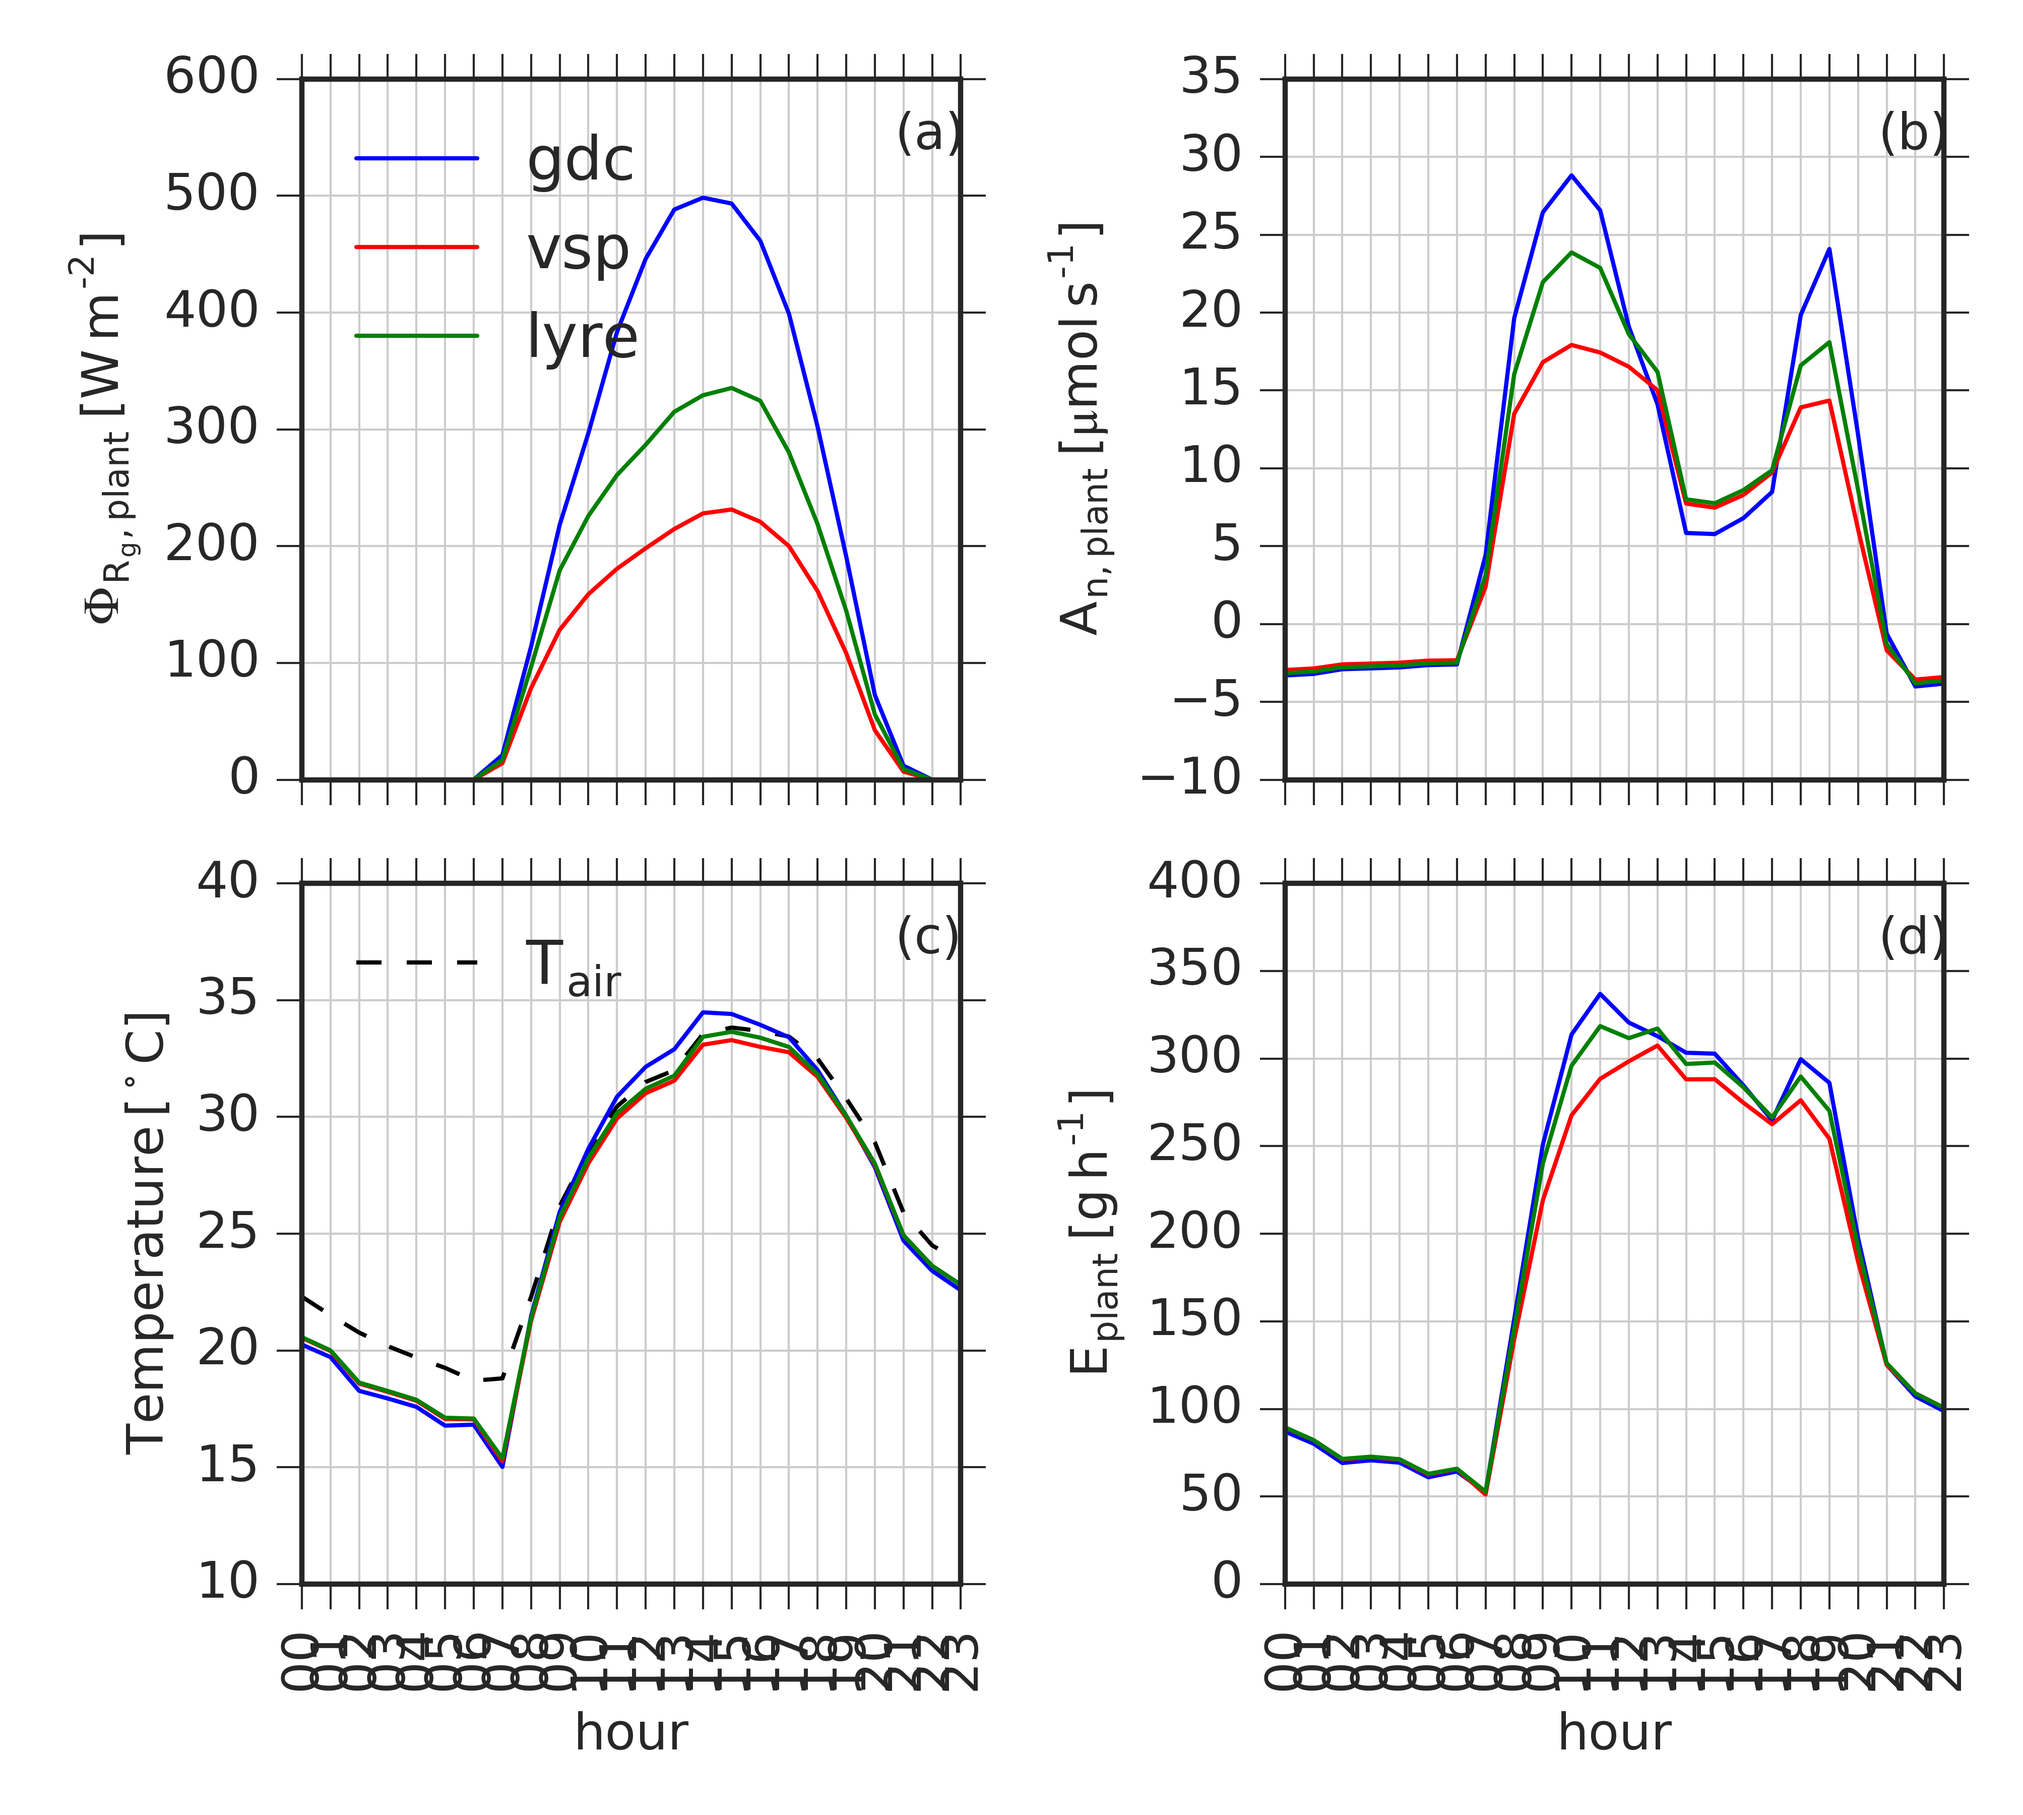
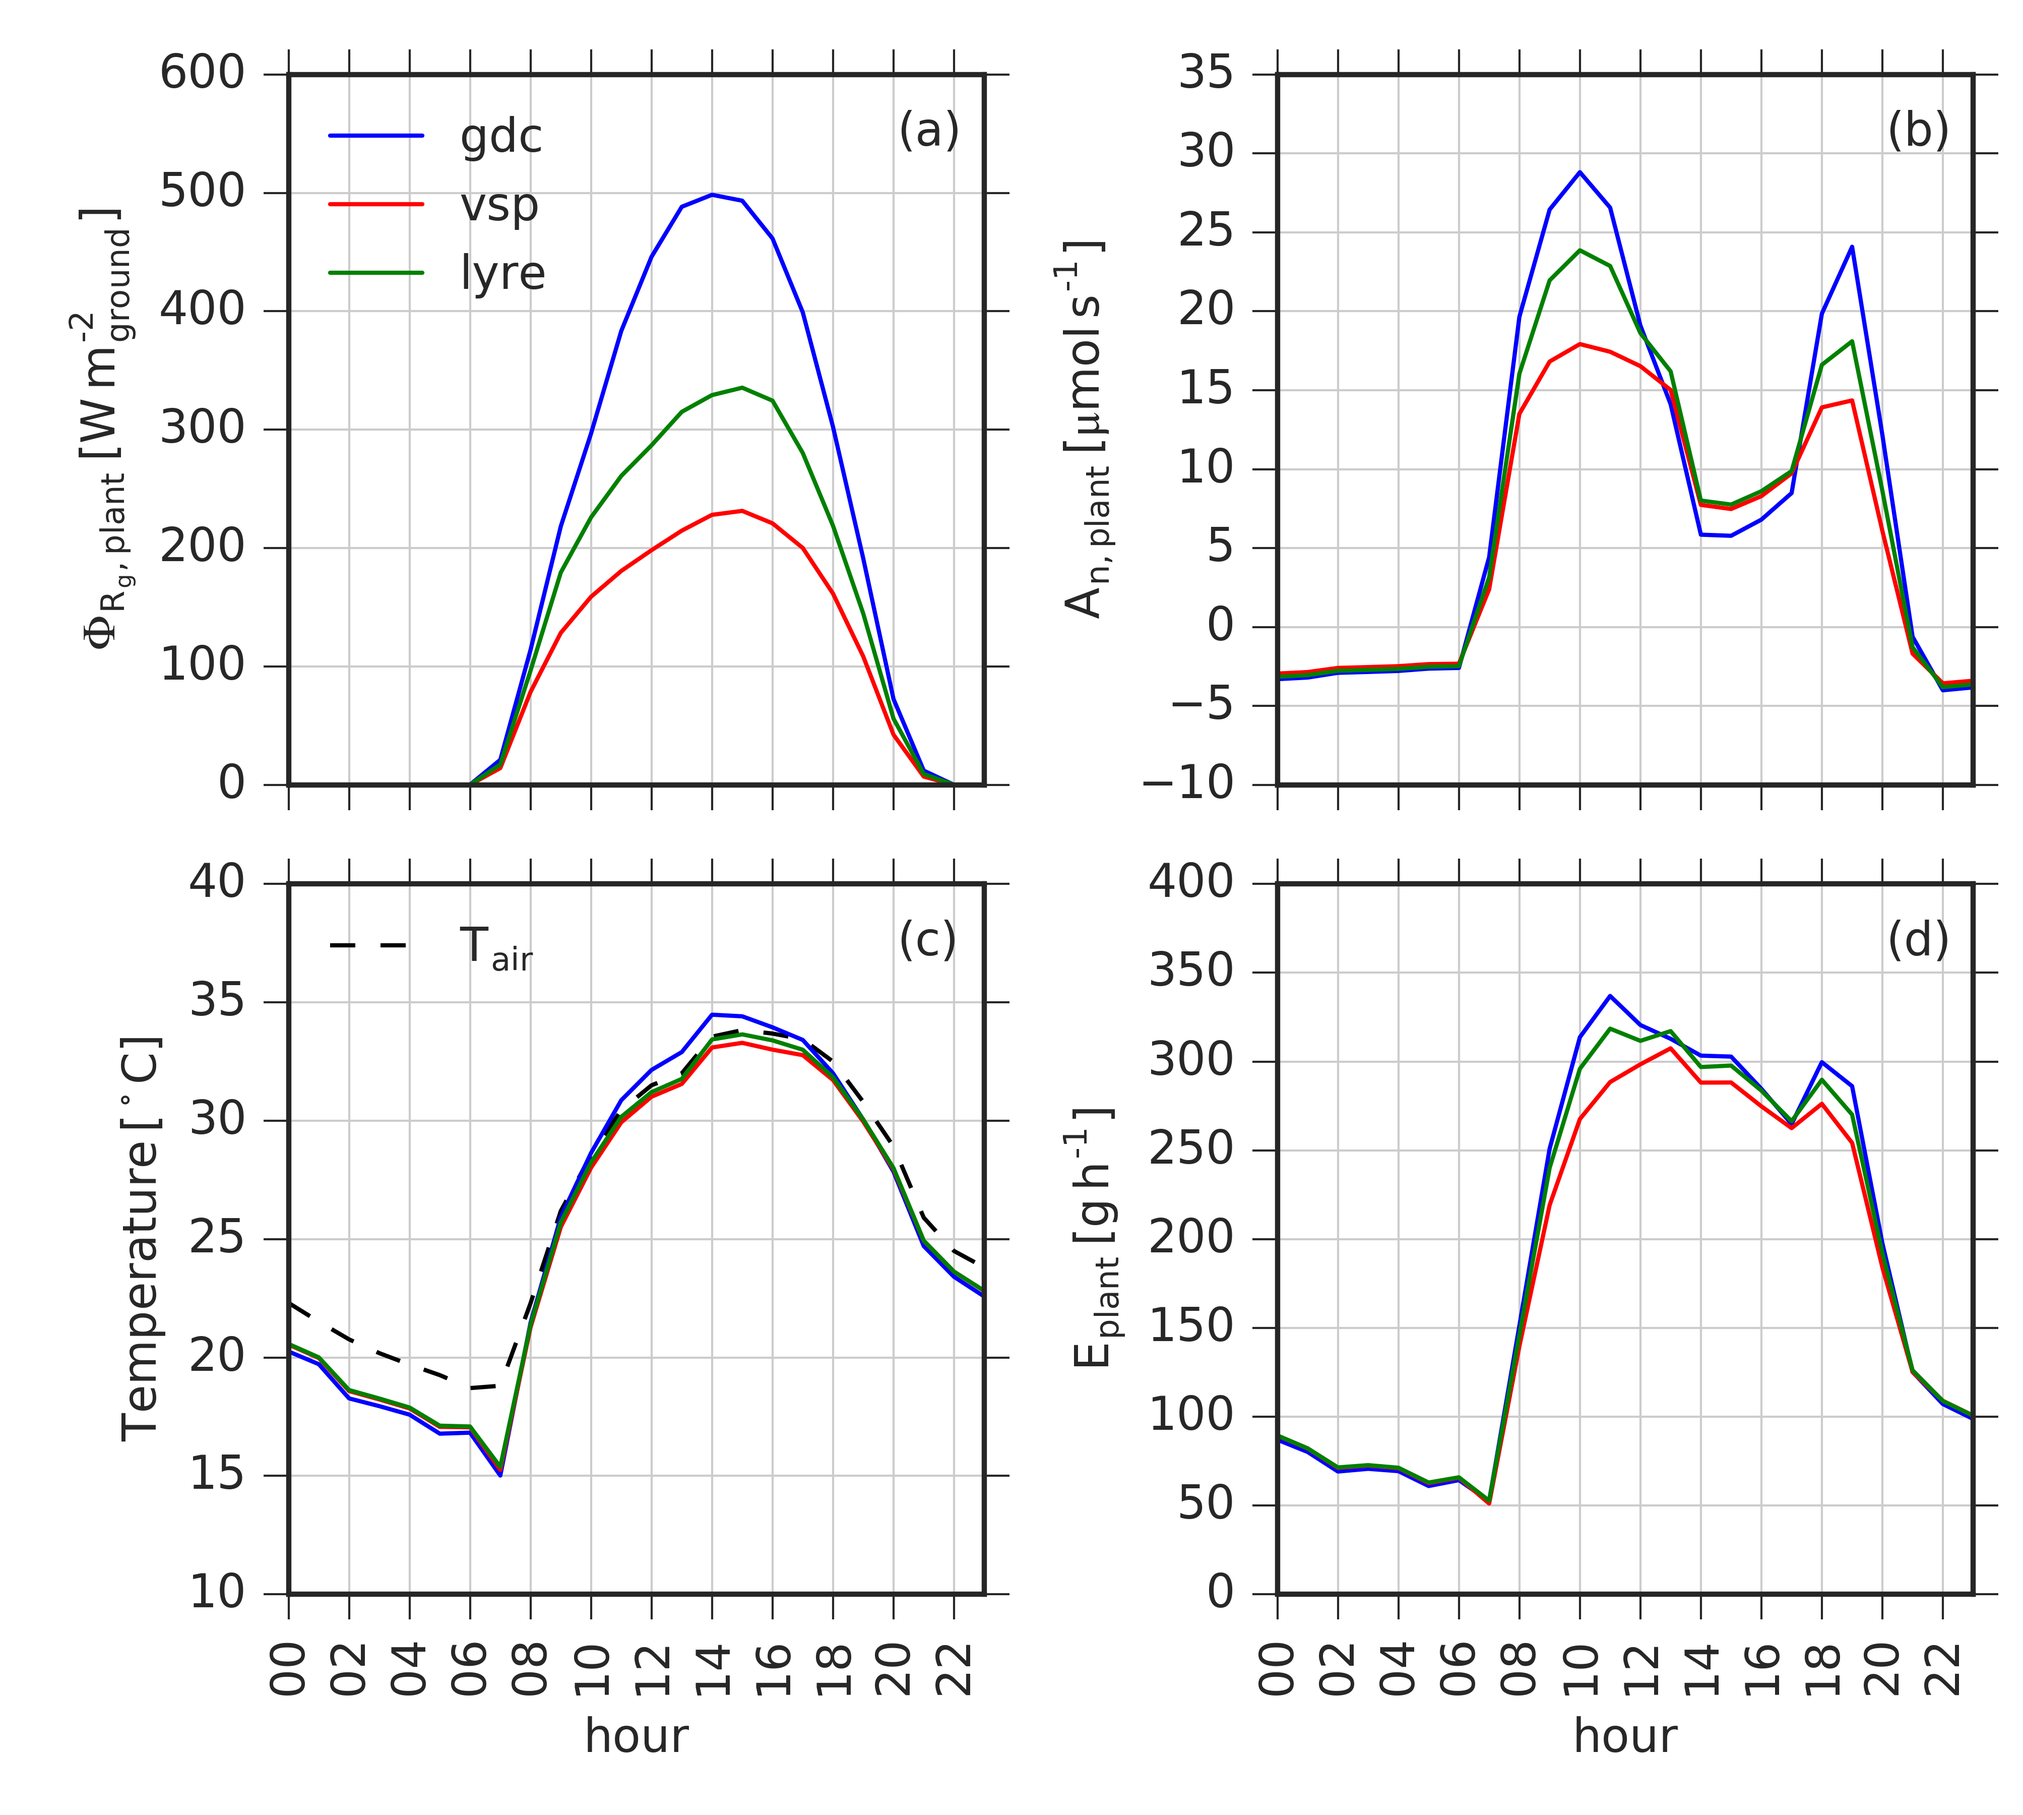
update figsr

diff --git a/example/figs/paper_figs.py b/example/figs/paper_figs.py
@@ -505,12 +505,11 @@ def plot_figure_13():
     ax5 = pyplot.subplot(gs2[0])
     ax6 = pyplot.subplot(gs2[1])
 
-    # fig = ax1.get_figure()
     fig.set_figheight(6)
     fig.set_figwidth(6.69)
     axs = np.array([[ax1, ax2, ax5],
                     [ax3, ax4, ax6]])
-    # fig, axs = pyplot.subplots(nrows=2, ncols=3, figsize=(6.69, 6))
+
     [ax.grid() for ax in axs.flatten()]
 
     for iax, training in enumerate(('vsp_ww_grapevine', 'vsp_ws_grapevine')):
